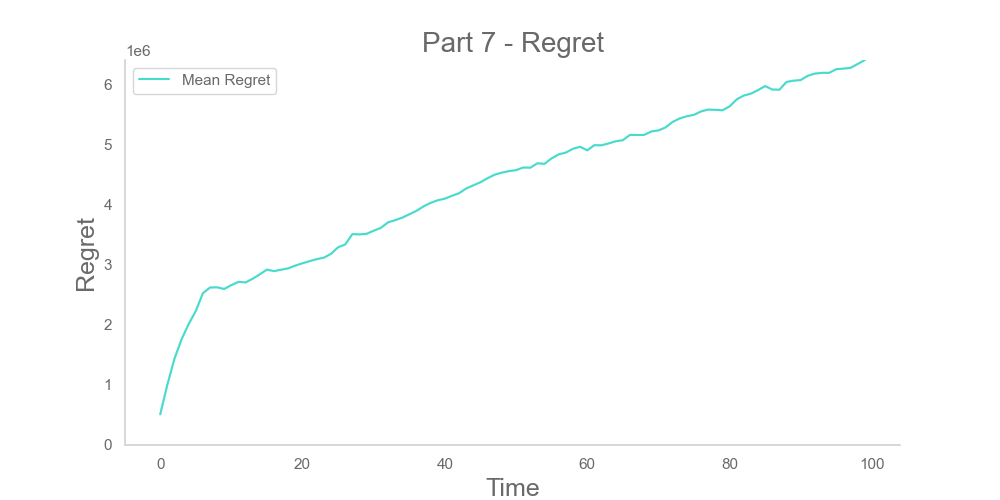
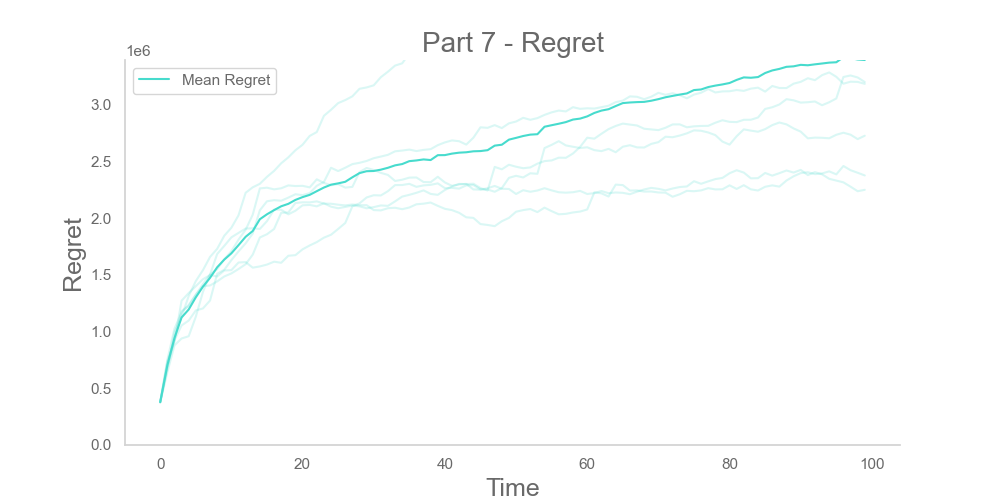
PART 7 - TOP

diff --git a/project/part_7/FixedPriceBudgetAllocator.py b/project/part_7/FixedPriceBudgetAllocator.py
@@ -40,17 +40,17 @@ class FixedPriceBudgetAllocator:
 
 
     def next_price(self):
-        while self.n_updates < n_arms_pricing:
+        while self.n_updates < n_arms_pricing/2:
 
             if self.n_updates > 0:
-                allocation = self.compute_best_allocation(self.n_updates)[0]
+                allocation = self.compute_best_allocation(self.n_updates * 2)[0]
             else:
                 avg = 1 / n_subcamp
                 allocation = [avg, avg, avg]
             allocation_x_class = {}
             for subh, c in zip(self.subcampaignHandlers, range(len(classes_config))):
                 allocation_x_class[subh.class_name] = get_idx_arm_from_allocation(allocation[c],self.bids)
-            return self.n_updates, allocation_x_class
+            return self.n_updates * 2, allocation_x_class
 
         max_estimated_reward = -1
         final_allocation = []
@@ -85,3 +85,42 @@ class FixedPriceBudgetAllocator:
                 best_price = arm_price
                 optimal_reward = purch_atprice * self.prices[arm_price]
         return optimal_reward, best_price
+
+    def get_optimal_reward_not_fixedprice(self, biddingEnvironment, mch):
+        """
+            This function is to compute the total optimal revenue, for the computation of the non-agnostic regret.
+            Note: the so called "agnostic" regret is the regret in which the optimal revenue
+                is computed using the "optimal number of clicks",
+                but the "optimal number of clicks" is NOT computed knowing the pricing.
+                Below, we compute the "optimal number of clicks" using the pricing!
+        """
+        table_all_subs = np.ndarray(shape=(0, len(self.bids)),
+                                    dtype=np.float32)
+
+        # for loop to initialize the table with the product between the unknown curves and the optimal revenues
+        for sub_idx, subcampaign_handler in enumerate(self.subcampaignHandlers):
+            unknown_clicks_curve = biddingEnvironment.get_optimal_clicks(sub_idx)
+            opt = mch.get_optimal(class_name=subcampaign_handler.class_name)
+            optimal_revenue = opt['price'] * opt['probability']
+
+            revenue_clicks = np.multiply(unknown_clicks_curve, optimal_revenue)
+            table_all_subs = np.append(table_all_subs, np.atleast_2d(revenue_clicks.T), 0)
+
+        # computation of the optimal allocation
+        optimal_allocation = fit_table(table_all_subs)[0]
+
+        # Once we have computed the optimal allocation, we can compute the total revenue
+        # using the pricing
+        optimal_total_revenue = 0
+        for sub_idx, (allocation, subcampaign_handler) in enumerate(zip(optimal_allocation,
+                                                                        self.subcampaignHandlers)):
+            hypothetical_pulled_arm = get_idx_arm_from_allocation(
+                allocation=allocation,
+                bids=self.bids)
+            opt = mch.get_optimal(class_name=subcampaign_handler.class_name)
+            optimal_revenue = opt['price'] * opt['probability']
+            optimal_clicks = biddingEnvironment.get_optimal_clicks(sub_idx)[hypothetical_pulled_arm]
+            optimal_total_revenue += optimal_clicks * optimal_revenue
+
+        return optimal_total_revenue
+

diff --git a/project/part_7/Testing_Env_7.py b/project/part_7/Testing_Env_7.py
@@ -72,12 +72,18 @@ def test_part7(n_experiments=10,
         results = pool.map(execute_experiment, args, chunksize=1)
 
     regret_per_experiment = []
+    regret_notfixed_per_experiment = []
     final_loss_per_experiment = []
+    final_loss_per_experiment_notfixed = []
 
     for result in results:
-        regret_per_experiment.append(result)
-        final_loss_per_experiment.append(sum(result))
+        regret_notfixed_per_experiment.append(result[1])
+        regret_per_experiment.append(result[0])
+        final_loss_per_experiment.append(sum(result[0]))
+        final_loss_per_experiment_notfixed.append(sum(result[1]))
+
     print('\n\nFINAL LOSS:', np.mean(final_loss_per_experiment))
+    print('\n\nFINAL NOT FIXED LOSS:', np.mean(final_loss_per_experiment_notfixed))
     print('\n\nMEAN LOSS:', np.mean(final_loss_per_experiment)/n_days)
 
 
@@ -86,7 +92,11 @@ def test_part7(n_experiments=10,
     for regret in regret_per_experiment:
         plt.plot(np.cumsum(regret), alpha=0.2, c='C2')
     plt.plot(np.cumsum(np.mean(regret_per_experiment, axis=0)), c='C2',
-             label='Mean Regret')  # (Advertising <==> Pricing)')
+             label='Mean Regret')
+    for regret in regret_notfixed_per_experiment:
+        plt.plot(np.cumsum(regret), alpha=0.2, c='C1')
+    plt.plot(np.cumsum(np.mean(regret_notfixed_per_experiment, axis=0)), c='C1',
+             label='Mean Regret Price Not Fixed X Class')
     plt.xlabel('Time')
     plt.ylabel('Regret')
     plt.ylim([0, np.cumsum(np.mean(regret_per_experiment, axis=0))[-1]])
@@ -108,7 +118,9 @@ def execute_experiment(args):
     current_day = 0
     done = False
     regret = []
+    regret_not_fixed = []
     optimal, opt_price = fix_price_budget_allocator.compute_optimal_reward(biddingEnvironment, mch)
+    optimal_not_fixed = fix_price_budget_allocator.get_optimal_reward_not_fixedprice(biddingEnvironment, mch)
     print(f"optimal daily reward: {optimal}")
     print(f"optimal arm price: {opt_price}")
     while not done:
@@ -118,6 +130,8 @@ def execute_experiment(args):
         click_per_class = biddingEnvironment.round(list(allocation.values()))
         purchases_per_class = purchasesEnvironment.round(arm_price, click_per_class)
 
+        regret_not_fixed.append(optimal_not_fixed - (sum(purchases_per_class.values()) * fix_price_budget_allocator.prices[arm_price]))
+
         regret.append(optimal - (sum(purchases_per_class.values()) * fix_price_budget_allocator.prices[arm_price]))
         fix_price_budget_allocator.update(arm_price,allocation, click_per_class, purchases_per_class)
 
@@ -126,8 +140,8 @@ def execute_experiment(args):
 
 
 
-    return regret
+    return regret, regret_not_fixed
 
 
 if __name__ == '__main__':
-    test_part7(n_experiments=1)
+    test_part7(n_experiments=10)
